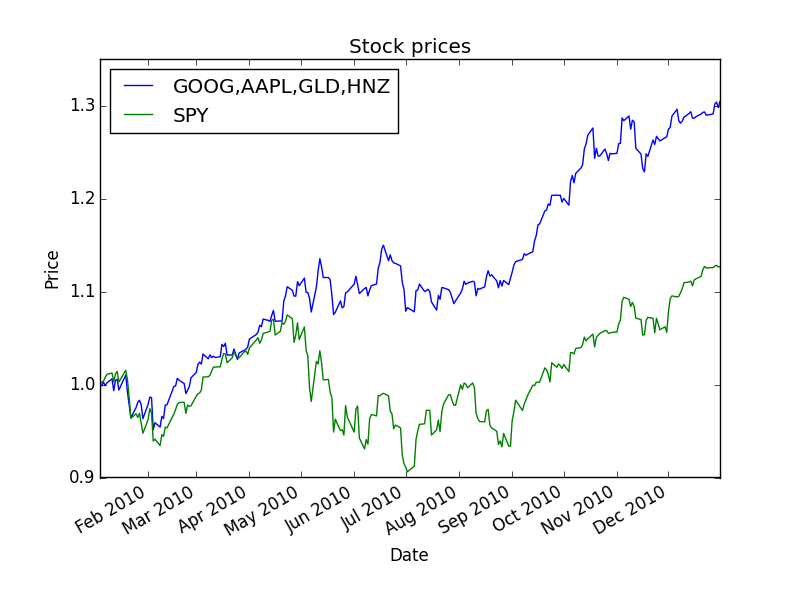
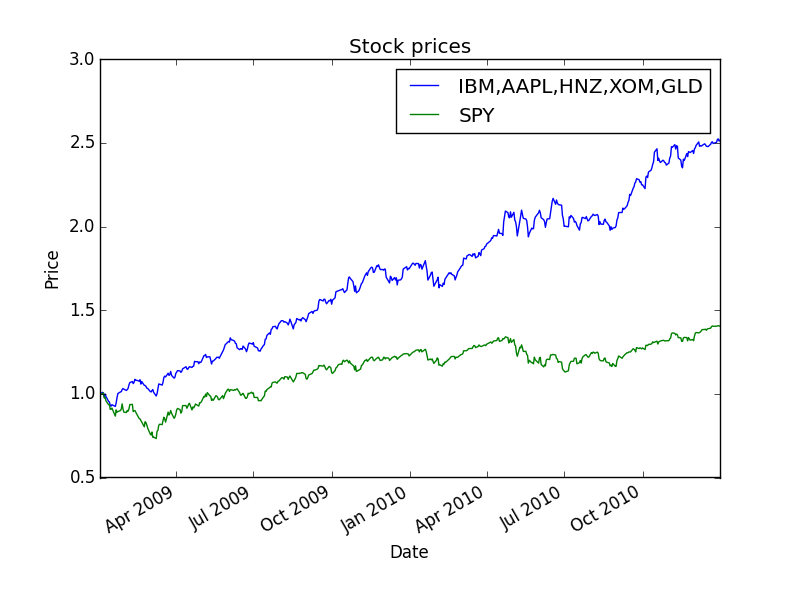
MC1 P2 Final symbols

diff --git a/mc1_p2/optimization.py b/mc1_p2/optimization.py
@@ -78,9 +78,9 @@ if __name__ == "__main__":
     # Note that ALL of these values will be set to different values by
     # the autograder!
 
-    start_date = dt.datetime(2010,1,1)
+    start_date = dt.datetime(2009,1,1)
     end_date = dt.datetime(2010,12,31)
-    symbols = ['GOOG', 'AAPL', 'GLD', 'HNZ']
+    symbols = ['IBM', 'AAPL', 'HNZ', 'XOM', 'GLD']
 
 
     # Assess the portfolio

diff --git a/python_question/question.py b/python_question/question.py
@@ -1,0 +1,9 @@
+import numpy as np
+
+def foo(x):
+    return 1 + x ** 2
+
+a = np.array([0.2, 0.2, 0.2, 0.2, 0.2])
+b = [0.2, 0.2, 0.2, 0.2, 0.2]
+print(foo(b))
+print(foo(a))
